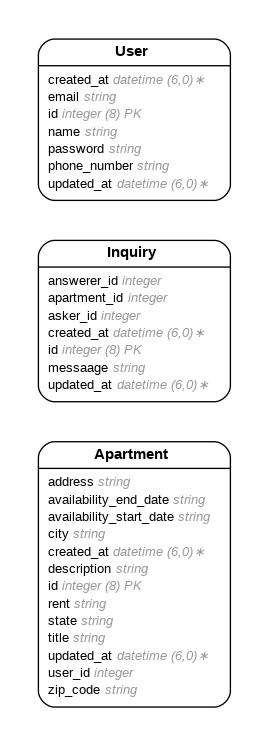
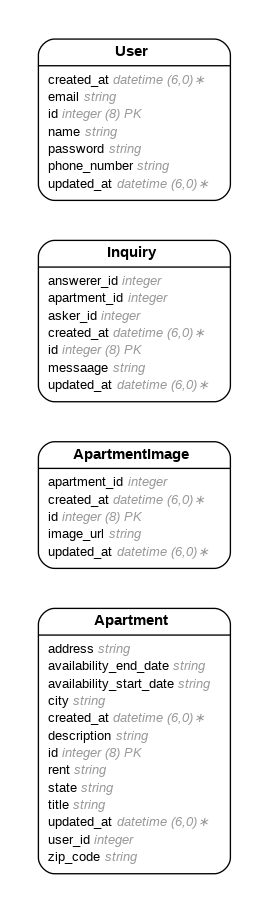
generated apartment images resource

Changed region(s): [[0.119, 0.0308, 0.8625, 0.9558], [0.803, 0.9249, 0.8625, 0.9558]]

diff --git a/app/controllers/apartment_images_controller.rb b/app/controllers/apartment_images_controller.rb
@@ -1,0 +1,56 @@
+class ApartmentImagesController < ApplicationController
+  def index
+    matching_apartment_images = ApartmentImage.all
+
+    @list_of_apartment_images = matching_apartment_images.order({ :created_at => :desc })
+
+    render({ :template => "apartment_images/index" })
+  end
+
+  def show
+    the_id = params.fetch("path_id")
+
+    matching_apartment_images = ApartmentImage.where({ :id => the_id })
+
+    @the_apartment_image = matching_apartment_images.at(0)
+
+    render({ :template => "apartment_images/show" })
+  end
+
+  def create
+    the_apartment_image = ApartmentImage.new
+    the_apartment_image.apartment_id = params.fetch("query_apartment_id")
+    the_apartment_image.image_url = params.fetch("query_image_url")
+
+    if the_apartment_image.valid?
+      the_apartment_image.save
+      redirect_to("/apartment_images", { :notice => "Apartment image created successfully." })
+    else
+      redirect_to("/apartment_images", { :alert => the_apartment_image.errors.full_messages.to_sentence })
+    end
+  end
+
+  def update
+    the_id = params.fetch("path_id")
+    the_apartment_image = ApartmentImage.where({ :id => the_id }).at(0)
+
+    the_apartment_image.apartment_id = params.fetch("query_apartment_id")
+    the_apartment_image.image_url = params.fetch("query_image_url")
+
+    if the_apartment_image.valid?
+      the_apartment_image.save
+      redirect_to("/apartment_images/#{the_apartment_image.id}", { :notice => "Apartment image updated successfully."} )
+    else
+      redirect_to("/apartment_images/#{the_apartment_image.id}", { :alert => the_apartment_image.errors.full_messages.to_sentence })
+    end
+  end
+
+  def destroy
+    the_id = params.fetch("path_id")
+    the_apartment_image = ApartmentImage.where({ :id => the_id }).at(0)
+
+    the_apartment_image.destroy
+
+    redirect_to("/apartment_images", { :notice => "Apartment image deleted successfully."} )
+  end
+end

diff --git a/config/routes.rb b/config/routes.rb
@@ -1,5 +1,24 @@
 Rails.application.routes.draw do
 
+  # Routes for the Apartment image resource:
+
+  # CREATE
+  post("/insert_apartment_image", { :controller => "apartment_images", :action => "create" })
+          
+  # READ
+  get("/apartment_images", { :controller => "apartment_images", :action => "index" })
+  
+  get("/apartment_images/:path_id", { :controller => "apartment_images", :action => "show" })
+  
+  # UPDATE
+  
+  post("/modify_apartment_image/:path_id", { :controller => "apartment_images", :action => "update" })
+  
+  # DELETE
+  get("/delete_apartment_image/:path_id", { :controller => "apartment_images", :action => "destroy" })
+
+  #------------------------------
+
   # Routes for the Inquiry resource:
 
   # CREATE

diff --git a/db/schema.rb b/db/schema.rb
@@ -10,9 +10,16 @@
 #
 # It's strongly recommended that you check this file into your version control system.
 
-ActiveRecord::Schema[7.1].define(version: 2024_12_09_202833) do
+ActiveRecord::Schema[7.1].define(version: 2024_12_09_202945) do
   # These are extensions that must be enabled in order to support this database
   enable_extension "plpgsql"
+
+  create_table "apartment_images", force: :cascade do |t|
+    t.integer "apartment_id"
+    t.string "image_url"
+    t.datetime "created_at", null: false
+    t.datetime "updated_at", null: false
+  end
 
   create_table "apartments", force: :cascade do |t|
     t.string "title"

diff --git a/app/models/apartment_image.rb b/app/models/apartment_image.rb
@@ -1,0 +1,12 @@
+# == Schema Information
+#
+# Table name: apartment_images
+#
+#  id           :bigint           not null, primary key
+#  image_url    :string
+#  created_at   :datetime         not null
+#  updated_at   :datetime         not null
+#  apartment_id :integer
+#
+class ApartmentImage < ApplicationRecord
+end

diff --git a/db/migrate/20241209202945_create_apartment_images.rb b/db/migrate/20241209202945_create_apartment_images.rb
@@ -1,0 +1,10 @@
+class CreateApartmentImages < ActiveRecord::Migration[7.1]
+  def change
+    create_table :apartment_images do |t|
+      t.integer :apartment_id
+      t.string :image_url
+
+      t.timestamps
+    end
+  end
+end
